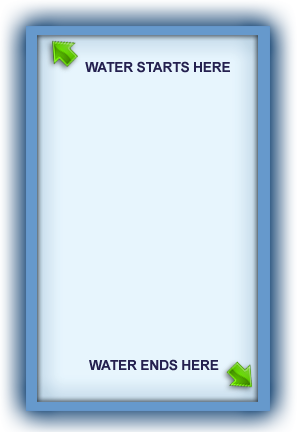
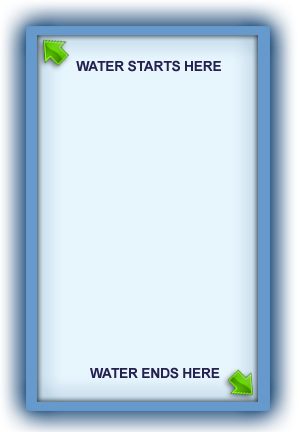
added start and end pipe animations

Changed region(s): [[0.12, 0.0903, 0.78, 0.1806], [0.3, 0.8125, 0.84, 0.9329]]

diff --git a/js/levels.js b/js/levels.js
@@ -1,9 +1,10 @@
 var levels = {
 	level1: [[["0","1","0","1"],["0","0","0","0"],["0","0","0","0"],["0","0","0","0"],["0","0","0","0"],["0","0","0","0"]],[["0","0","1","1"],["0","1","1","0"],["0","0","0","0"],["0","0","0","0"],["0","0","0","0"],["0","0","0","0"]],[["0","0","0","0"],["0","0","1","1"],["1","1","0","0"],["0","0","0","0"],["0","0","0","0"],["0","0","0","0"]],[["0","0","0","0"],["0","0","0","0"],["0","0","1","1"],["1","0","1","0"],["1","0","1","0"],["1","1","0","0"]]],
-	level2: [[["0","1","0","1"],["0","1","1","0"],["0","0","1","1"],["1","1","0","0"],["0","1","1","0"],["1","1","0","0"]],[["0","1","0","1"],["0","1","0","1"],["0","1","0","1"],["0","1","0","1"],["0","1","0","1"],["0","1","0","1"]],[["0","1","0","1"],["0","1","0","1"],["0","1","0","1"],["0","1","0","1"],["0","1","0","1"],["0","1","0","1"]],[["0","0","1","1"],["1","0","0","1"],["0","0","1","1"],["0","1","0","1"],["1","0","0","1"],["0","1","0","1"]]],
-	level3: [[["0","0","1","1"],["1","1","0","0"],["0","1","1","0"],["0","1","0","1"],["1","0","1","0"],["1","1","0","0"]],[["0","1","1","0"],["1","1","0","0"],["0","0","1","1"],["1","1","0","0"],["1","1","0","0"],["1","0","0","1"]],[["0","0","1","1"],["1","1","0","0"],["1","1","0","0"],["1","0","0","1"],["0","0","1","1"],["1","1","0","0"]],[["0","0","0","0"],["0","0","1","1"],["1","0","0","1"],["0","0","0","0"],["0","0","0","0"],["0","1","0","1"]]],
-	level4: [[["0","1","0","1"],["0","1","1","0"],["0","1","0","1"],["1","1","0","0"],["0","0","1","1"],["1","1","0","0"]],[["0","0","1","1"],["1","2","1","2"],["0","1","1","0"],["1","0","0","1"],["1","2","1","2"],["1","0","0","1"]],[["0","0","0","0"],["1","1","0","0"],["2","1","2","1"],["1","1","0","0"],["0","0","1","1"],["1","0","0","1"]],[["0","0","0","0"],["0","0","0","0"],["1","1","0","0"],["1","0","0","1"],["0","0","0","0"],["0","1","0","1"]]],
-	level5: [[["0","0","1","1"],["1","1","0","0"],["1","1","0","0"],["0","1","1","0"],["0","1","0","1"],["1","1","0","0"]],[["0","0","1","1"],["1","2","1","2"],["0","1","1","0"],["1","0","0","1"],["0","0","1","1"],["1","0","1","0"]],[["0","0","1","1"],["1","2","1","2"],["2","1","2","1"],["1","0","1","0"],["2","1","2","1"],["1","0","0","1"]],[["0","1","1","0"],["0","0","1","1"],["0","0","1","1"],["1","1","0","0"],["0","0","1","1"],["1","1","0","0"]]],
-	level6: [[["0","1","0","1"],["1","1","0","0"],["1","0","1","0"],["1","1","0","0"],["1","1","0","0"],["1","1","0","0"]],[["0","0","1","1"],["1","2","1","2"],["0","1","0","1"],["1","2","1","2"],["1","2","1","2"],["1","1","0","0"]],[["1","1","0","0"],["1","2","1","2"],["0","1","0","1"],["1","2","1","2"],["1","2","1","2"],["1","1","0","0"]],[["0","0","1","1"],["1","0","0","1"],["1","1","0","0"],["1","1","0","0"],["1","1","0","0"],["0","1","0","1"]]],
-	level7: [[["0","0","1","1"],["1","1","0","0"],["1","1","0","0"],["0","1","1","0"],["1","1","0","0"],["0","0","1","1"]],[["0","0","1","1"],["2","1","2","1"],["1","2","1","2"],["2","1","2","1"],["1","2","1","2"],["0","1","1","0"]],[["1","0","1","0"],["0","0","1","1"],["0","0","1","1"],["1","1","0","0"],["0","0","1","1"],["1","0","0","1"]],[["0","0","1","1"],["1","0","1","0"],["0","1","0","1"],["0","1","0","1"],["1","0","1","0"],["1","1","0","0"]]]
+	level2: [[["0","1","1","0"],["0","1","1","0"],["0","0","0","0"],["0","0","0","0"],["0","0","0","0"],["0","0","0","0"]],[["0","0","0","0"],["0","1","1","0"],["0","1","1","0"],["0","0","0","0"],["0","0","0","0"],["0","0","0","0"]],[["0","0","0","0"],["0","0","0","0"],["0","1","1","0"],["0","1","1","0"],["0","0","0","0"],["0","0","0","0"]],[["0","0","0","0"],["0","0","0","0"],["0","0","0","0"],["0","1","1","0"],["0","1","0","1"],["0","1","1","0"]]],
+	level3: [[["0","1","0","1"],["0","1","1","0"],["0","0","1","1"],["1","1","0","0"],["0","1","1","0"],["1","1","0","0"]],[["0","1","0","1"],["0","1","0","1"],["0","1","0","1"],["0","1","0","1"],["0","1","0","1"],["0","1","0","1"]],[["0","1","0","1"],["0","1","0","1"],["0","1","0","1"],["0","1","0","1"],["0","1","0","1"],["0","1","0","1"]],[["0","0","1","1"],["1","0","0","1"],["0","0","1","1"],["0","1","0","1"],["1","0","0","1"],["0","1","0","1"]]],
+	level4: [[["0","0","1","1"],["1","1","0","0"],["0","1","1","0"],["0","1","0","1"],["1","0","1","0"],["1","1","0","0"]],[["0","1","1","0"],["1","1","0","0"],["0","0","1","1"],["1","1","0","0"],["1","1","0","0"],["1","0","0","1"]],[["0","0","1","1"],["1","1","0","0"],["1","1","0","0"],["1","0","0","1"],["0","0","1","1"],["1","1","0","0"]],[["0","0","0","0"],["0","0","1","1"],["1","0","0","1"],["0","0","0","0"],["0","0","0","0"],["0","1","0","1"]]],
+	level5: [[["0","1","0","1"],["0","1","1","0"],["0","1","0","1"],["1","1","0","0"],["0","0","1","1"],["1","1","0","0"]],[["0","0","1","1"],["1","2","1","2"],["0","1","1","0"],["1","0","0","1"],["1","2","1","2"],["1","0","0","1"]],[["0","0","0","0"],["1","1","0","0"],["2","1","2","1"],["1","1","0","0"],["0","0","1","1"],["1","0","0","1"]],[["0","0","0","0"],["0","0","0","0"],["1","1","0","0"],["1","0","0","1"],["0","0","0","0"],["0","1","0","1"]]],
+	level6: [[["0","0","1","1"],["1","1","0","0"],["1","1","0","0"],["0","1","1","0"],["0","1","0","1"],["1","1","0","0"]],[["0","0","1","1"],["1","2","1","2"],["0","1","1","0"],["1","0","0","1"],["0","0","1","1"],["1","0","1","0"]],[["0","0","1","1"],["1","2","1","2"],["2","1","2","1"],["1","0","1","0"],["2","1","2","1"],["1","0","0","1"]],[["0","1","1","0"],["0","0","1","1"],["0","0","1","1"],["1","1","0","0"],["0","0","1","1"],["1","1","0","0"]]],
+	level7: [[["0","1","0","1"],["1","1","0","0"],["1","0","1","0"],["1","1","0","0"],["1","1","0","0"],["1","1","0","0"]],[["0","0","1","1"],["1","2","1","2"],["0","1","0","1"],["1","2","1","2"],["1","2","1","2"],["1","1","0","0"]],[["1","1","0","0"],["1","2","1","2"],["0","1","0","1"],["1","2","1","2"],["1","2","1","2"],["1","1","0","0"]],[["0","0","1","1"],["1","0","0","1"],["1","1","0","0"],["1","1","0","0"],["1","1","0","0"],["0","1","0","1"]]],
+	level8: [[["0","0","1","1"],["1","1","0","0"],["1","1","0","0"],["0","1","1","0"],["1","1","0","0"],["0","0","1","1"]],[["0","0","1","1"],["2","1","2","1"],["1","2","1","2"],["2","1","2","1"],["1","2","1","2"],["0","1","1","0"]],[["1","0","1","0"],["0","0","1","1"],["0","0","1","1"],["1","1","0","0"],["0","0","1","1"],["1","0","0","1"]],[["0","0","1","1"],["1","0","1","0"],["0","1","0","1"],["0","1","0","1"],["1","0","1","0"],["1","1","0","0"]]]
 }

diff --git a/css/pipes.css b/css/pipes.css
@@ -75,7 +75,65 @@
 		
 		
 		
-		
+	
+	
+	
+	
+	@-webkit-keyframes start {
+   from { background-position:    -0px 3px; }
+     to { background-position: -142px 3px; }
+}
+
+@-moz-keyframes start  {
+    from { background-position:    -0px 3px; }
+     to { background-position: -142px 3px; }
+}
+
+@-ms-keyframes start  {
+    from { background-position:    -0px 3px; }
+     to { background-position: -142px 3px; }
+}
+
+@-o-keyframes start  {
+   from { background-position:    -0px 3px; }
+     to { background-position: -142px 3px; }
+}
+
+@keyframes start {
+   from { background-position:    -0px 3px; }
+     to { background-position: -142px 3px; }
+}
+	
+	
+	
+	
+	
+	
+	@-webkit-keyframes end {
+   from { background-position:    -0px -62px; }
+     to { background-position: -142px -62px; }
+}
+
+@-moz-keyframes end   {
+    from { background-position:    -0px -62px; }
+     to { background-position: -142px -62px; }
+}
+
+@-ms-keyframes end   {
+    from { background-position:    -0px -62px; }
+     to { background-position: -142px -62px; }
+}
+
+@-o-keyframes end   {
+   from { background-position:    -0px -62px; }
+     to { background-position: -142px -62px; }
+}
+
+@keyframes end  {
+   from { background-position:    -0px -62px; }
+     to { background-position: -142px -62px; }
+}
+	
 body{
 	-webkit-box-shadow: inset 0 0 49px 18px rgba(2,7,77,0.65);
 	-moz-box-shadow: inset 0 0 49px 18px rgba(2,7,77,0.65);
@@ -310,6 +368,7 @@ body, html{
 	width:100%;
 	height:100%;
 	float:left;
+	overflow: hidden;
 } 
 .plumbing {
 	background: #e8e6e6;
@@ -551,3 +610,41 @@ box-shadow: inset 0 0 12px 2px rgba(0,0,0,0.43);
 -o-box-shadow: inset -2px 2px 6px #052756, 0px 1px 0px #60c9f0;
 box-shadow: inset -2px 2px 6px #052756, 0px 1px 0px #60c9f0;
 }
+
+.plumbing:before{
+	width: 71px;
+	height: 71px;
+	content: "";
+	background: URL(.././img/start.png) 0px 3px;
+	display: block;
+	margin-left: -71px;
+	margin-bottom: -71px;
+	
+	  -webkit-animation: start .8s steps(2) infinite;
+       -moz-animation: start .8s steps(2) infinite;
+        -ms-animation: start .8s steps(2) infinite;
+         -o-animation: start .8s steps(2) infinite;
+            animation: start .8s steps(2) infinite;
+}
+.plumbing:after{
+	width: 71px;
+	height: 71px;
+	content: "";
+	background: URL(.././img/start.png) 0px -62px;
+	display: block;
+	margin-right: -68px;
+	margin-top: -73px;
+	position: relative;
+	float: right;
+	
+	animation: end .8s steps(2) infinite;
+	-webkit-animation: end .8s steps(2) infinite;
+       -moz-animation: end .8s steps(2) infinite;
+        -ms-animation: end .8s steps(2) infinite;
+         -o-animation: end .8s steps(2) infinite;
+            
+}
+
+
+
+

diff --git a/js/pipes.js b/js/pipes.js
@@ -238,6 +238,9 @@ Pipe.prototype.clicked = function() {
 		if (!this.full) {
 			if (gameOptionsManager.selectedPipeValue != null && typeof gameOptionsManager.selectedPipeValue != 'undefined') {
 				this.setConnectionStatusList(gameOptionsManager.selectedPipeValue);
+				if(typeof window.SoundManager != "undefined"){
+					window.SoundManager.playTurn();
+				}
 			}
 		}
 	} else {
